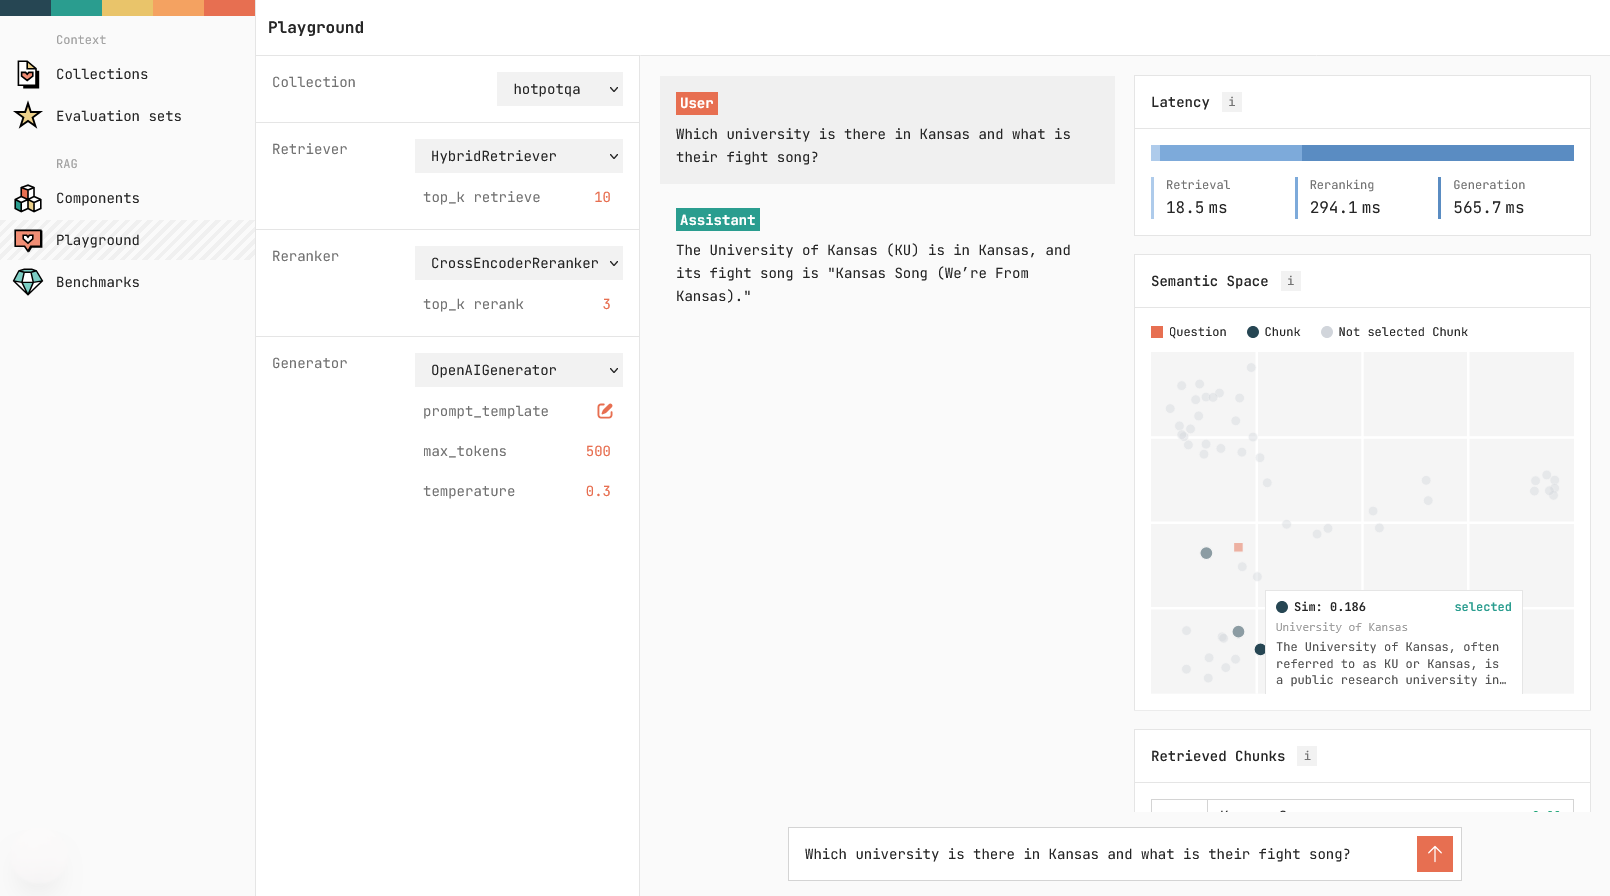
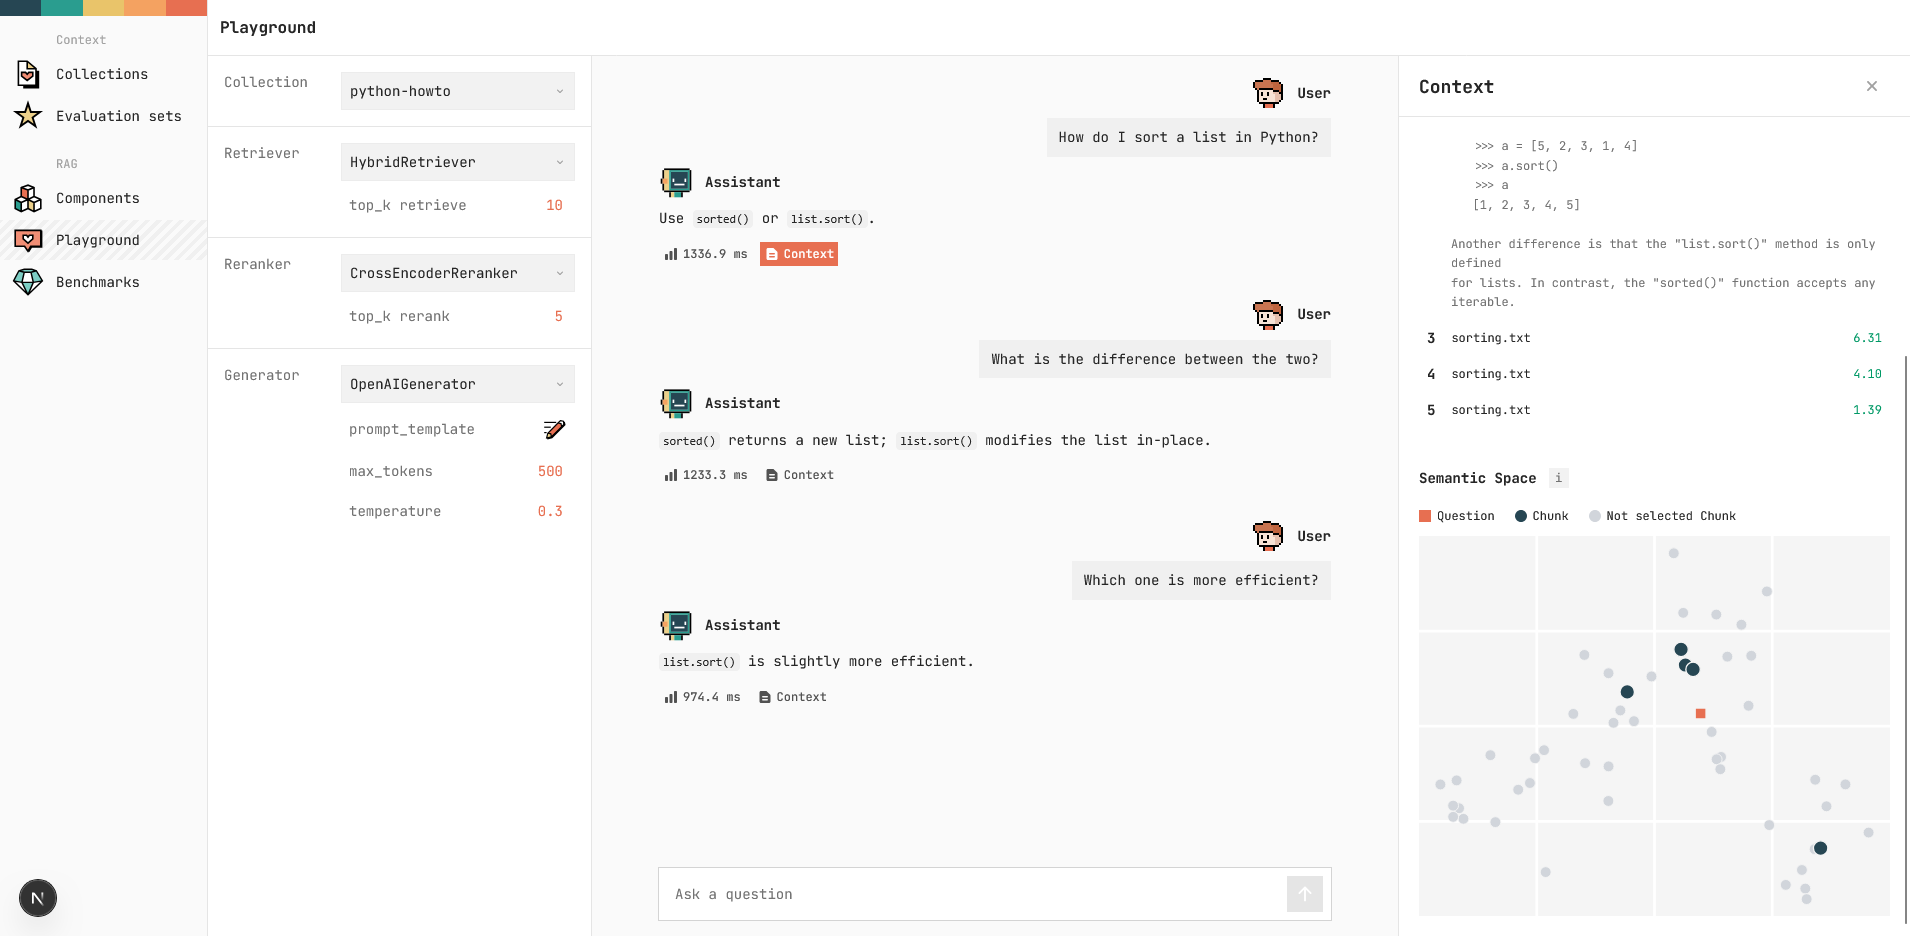
replace image

diff --git a/README.md b/README.md
@@ -7,19 +7,19 @@ A tool for benchmarking RAG (Retrieval-Augmented Generation) pipeline configurat
 <div align="center">
 <table>
 <tr>
-<td><img src="./images/sh_benchmark_results.png" alt="Screenshot Benchmark Results" width="100%"/></td>
+<td><img src="./images/sh_playground_page.png" alt="Screenshot Benchmark Results" width="100%"/></td>
 </tr>
 </table>
 <table>
 <tr>
-<td style="width:50%"><img src="./images/sh_components_page.png" alt="Screenshot Components Page" width="100%"/></td>
-<td style="width:50%"><img src="./images/sh_playground_page.png" alt="Screenshot Playground Page" width="100%"/></td>
+<td style="width:50%"><img src="./images/sh_benchmark_results.png" alt="Screenshot Playground Page" width="100%"/></td>
+<td style="width:50%"><img src="./images/sh_running_benchmark.png" alt="Screenshot Running Benchmark" width="100%"/></td>
 </tr>
 </table>
 <table>
 <tr>
 <td style="width:50%"><img src="./images/sh_new_collection.png" alt="Screenshot New Benchmark Page" width="100%"/></td>
-<td style="width:50%"><img src="./images/sh_running_benchmark.png" alt="Screenshot Running Benchmark" width="100%"/></td>
+<td style="width:50%"><img src="./images/sh_components_page.png" alt="Screenshot Components Page" width="100%"/></td>
 </tr>
 </table>
 
